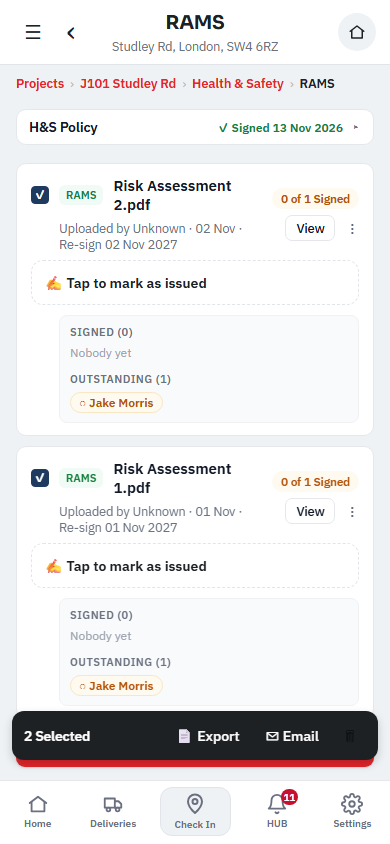
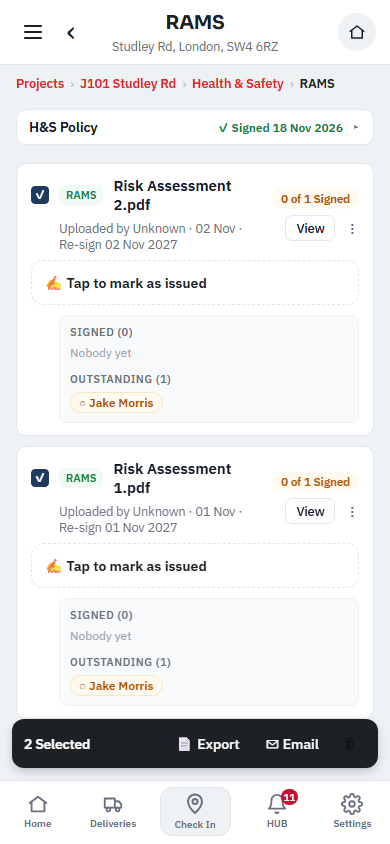
Invites: room above One-Time Invite and Copy Link says Copied ✓; RAMS bar above the phone menu; Back from a project's home goes Home (Andy, 18 Nov)
- Invites: space above One-Time Invite and Pending Invites; Copy Link changes to Copied ✓ (and its box goes green) for a
  moment, then back.
- H&S lists (RAMS etc.): the ticked-documents bar sits just above the phone's bottom menu, the iPhone's home-line space
  included ("the pop up bar sits too low").
- Back on a project's home screen goes to Home, not the Projects list; pages inside the project still step back to it.
- Tests: backhome18 new; hsbar (bar above the menu) and subsignup18 (Copied ✓, spacing) extended.

Claude-Session: https://claude.ai/code/session_012KhfNvBEbifMJmPdX7yZfp

Changed region(s): [[0.0308, 0.8318, 0.9846, 0.9242], [0.0615, 0.0308, 0.0923, 0.0616]]

diff --git a/app-native/src/app/(app)/pm/admin/invites.tsx b/app-native/src/app/(app)/pm/admin/invites.tsx
@@ -22,19 +22,22 @@ export default function Invites() {
   const { data } = useInvites(me?.org_id);
   const [role, setRole] = useState('operative');
   const [newId, setNewId] = useState<string | null>(null);
+  // Which link was just copied: its button says Copied ✓ and its box goes green for a moment (Andy, 18 Nov 2026: "When I
+  // click copy link it doesn't animate that anything has been copied").
+  const [copied, setCopied] = useState<string | null>(null);
   const [email, setEmail] = useState('');
   const [busy, setBusy] = useState<string | null>(null);
   if (!me) return null;
   if (!isManager(me)) return <Muted style={{ padding: space.l }}>Managers only.</Muted>;
   const refresh = () => { void qc.invalidateQueries({ queryKey: ['invites'] }); };
-  const share = async (link: string) => {
+  const share = async (link: string, which: string) => {
     const text = `${org?.name || 'Company'} x OpHUB Invite Link\n${link}`;
     try {
-      if (Platform.OS === 'web' && globalThis.navigator?.clipboard) { await globalThis.navigator.clipboard.writeText(text); toast('Link copied'); }
+      if (Platform.OS === 'web' && globalThis.navigator?.clipboard) { await globalThis.navigator.clipboard.writeText(text); setCopied(which); setTimeout(() => setCopied((c) => (c === which ? null : c)), 1800); }
       else await Share.share({ message: text });
     } catch { toast('Could not copy — select and copy the link manually.'); }
   };
-  const linkBox = (link: string) => <TextInput value={link} editable={false} selectTextOnFocus style={{ borderWidth: 1, borderColor: base.line, borderRadius: radius.input, padding: 8, fontSize: 11.5, color: base.ink, marginBottom: 8 }} />;
+  const linkBox = (link: string, which?: string) => <TextInput value={link} editable={false} selectTextOnFocus style={{ borderWidth: 1, borderColor: copied && copied === which ? base.ok : base.line, backgroundColor: copied && copied === which ? '#F2FBF6' : undefined, borderRadius: radius.input, padding: 8, fontSize: 11.5, color: base.ink, marginBottom: 8 }} />;
   const perm = data?.permanent;
   return (
     <ScrollView contentContainerStyle={page(720)} keyboardShouldPersistTaps="handled">
@@ -43,8 +46,8 @@ export default function Invites() {
         {perm ? (
           <>
             <Muted style={{ marginBottom: 8 }}>Share this one link with as many operatives as you like — it never expires and can be used more than once. Used {perm.use_count || 0} time{perm.use_count === 1 ? '' : 's'} so far.</Muted>
-            {linkBox(joinLink(perm.id))}
-            <Button kind="ghost" title={Platform.OS === 'web' ? 'Copy Link' : 'Share Link'} onPress={() => void share(joinLink(perm.id))} />
+            {linkBox(joinLink(perm.id), 'perm')}
+            <Button kind="ghost" title={Platform.OS === 'web' ? (copied === 'perm' ? 'Copied ✓' : 'Copy Link') : 'Share Link'} onPress={() => void share(joinLink(perm.id), 'perm')} />
             <Button kind="ghost" title="Revoke & Create New Link" onPress={async () => {
               if (!(await confirmAsk("This stops the current link from working — anyone who already joined stays on your team, but the link itself won't sign anyone new up any more. You can create a fresh one straight after. Continue?", 'Revoke'))) return;
               toast((await revokeInvite(perm.id)) ? 'Old link revoked' : 'Could not revoke — try again.'); refresh();
@@ -56,12 +59,12 @@ export default function Invites() {
             <Button busy={busy === 'perm'} title="Create Permanent Invite Link" onPress={async () => { setBusy('perm'); const ok = await createPermanentInvite(me); setBusy(null); toast(ok ? 'Permanent invite link created' : 'Could not create — try again.'); refresh(); }} />
           </>
         )}
-        <SectionTitle>One-time invite</SectionTitle>
+        <View style={{ marginTop: 20 }}><SectionTitle>One-Time Invite</SectionTitle></View>
         {newId ? (
           <>
             <Muted style={{ marginBottom: 8 }}>Share this link — it works once, for the next 14 days:</Muted>
-            {linkBox(joinLink(newId))}
-            <Button kind="ghost" title={Platform.OS === 'web' ? 'Copy Link' : 'Share Link'} onPress={() => void share(joinLink(newId))} />
+            {linkBox(joinLink(newId), 'one')}
+            <Button kind="ghost" title={Platform.OS === 'web' ? (copied === 'one' ? 'Copied ✓' : 'Copy Link') : 'Share Link'} onPress={() => void share(joinLink(newId), 'one')} />
             <Muted style={{ marginTop: 10, marginBottom: 6 }}>Or email it to them — a branded invite email with a button that takes them straight to sign-up.</Muted>
             <TextInput value={email} onChangeText={setEmail} placeholder="operative@example.com" autoCapitalize="none" keyboardType="email-address" style={{ borderWidth: 1, borderColor: base.line, borderRadius: radius.input, padding: 10, color: base.ink, marginBottom: 8 }} />
             <Button busy={busy === 'email'} title="Send Invite Email" onPress={async () => {
@@ -82,7 +85,7 @@ export default function Invites() {
         )}
         {!!data?.pending.length && (
           <>
-            <SectionTitle>Pending invites</SectionTitle>
+            <View style={{ marginTop: 20 }}><SectionTitle>Pending Invites</SectionTitle></View>
             {data.pending.map((i) => (
               <View key={i.id} style={{ flexDirection: 'row', alignItems: 'center', gap: 8, paddingVertical: 8, borderTopWidth: 1, borderTopColor: base.line }}>
                 <View style={{ flex: 1 }}>

diff --git a/app-native/src/components/HsDocList.tsx b/app-native/src/components/HsDocList.tsx
@@ -12,6 +12,7 @@ import { testFill } from '@/data/signTemplates';
 import { supabase } from '@/lib/supabase';
 import { useCallback, useState, type ReactNode } from 'react';
 import { Platform, Pressable, Text, useWindowDimensions, View } from 'react-native';
+import { useSafeAreaInsets } from 'react-native-safe-area-context';
 
 import { ClientSignLines } from '@/components/ClientSignLines';
 import { Portal } from '@/components/Portal';
@@ -124,6 +125,7 @@ export function HsDocList({ kind, site, companyId = null, canManage }: { kind: D
   useFocusEffect(useCallback(() => { setFocused(true); return () => setFocused(false); }, []));
   const narrow = useWindowDimensions().width < 700;
   const desk = useDesk();
+  const insets = useSafeAreaInsets();
   if (!me) return null;
   const manager = canManage ?? isManager(me);
   // Sign Off H&S (Admin › Roles): without it a manager sees RAMS / COSHH read-only. Site layouts and a subcontractor's own admin are unchanged.
@@ -213,9 +215,10 @@ export function HsDocList({ kind, site, companyId = null, canManage }: { kind: D
     toast(n === ids.length ? `${n} deleted` : `Only ${n} of ${ids.length} could be deleted — try again.`, { confirm: true });
   };
   // Drawn on top of the page (Portal), not inside the scrolling list: inside it, the bar scrolled up with the page and
-  // sat in the middle of the screen once there were a few RAMS (Andy, 14 Nov 2026).
+  // sat in the middle of the screen once there were a few RAMS (Andy, 14 Nov 2026). On a phone it sits just above the
+  // bottom menu, the iPhone's home-line space included (Andy, 18 Nov 2026: "the pop up bar sits too low").
   const bar = manager && kind !== 'layout' && sel.size > 0 && focused ? (<Portal>
-    <View style={{ position: (Platform.OS === 'web' ? 'fixed' : 'absolute') as 'absolute', left: desk ? 264 : 12, right: desk ? 24 : 12, bottom: desk ? 16 : 84, zIndex: 50, flexDirection: 'row', alignItems: 'center', gap: 6, paddingHorizontal: 12, paddingVertical: 8, borderRadius: 12, backgroundColor: base.ink, shadowColor: '#000', shadowOpacity: 0.18, shadowRadius: 10, shadowOffset: { width: 0, height: 4 }, elevation: 6 }}>
+    <View style={{ position: (Platform.OS === 'web' ? 'fixed' : 'absolute') as 'absolute', left: desk ? 264 : 12, right: desk ? 24 : 12, bottom: desk ? 16 : 76 + insets.bottom, zIndex: 50, flexDirection: 'row', alignItems: 'center', gap: 6, paddingHorizontal: 12, paddingVertical: 8, borderRadius: 12, backgroundColor: base.ink, shadowColor: '#000', shadowOpacity: 0.18, shadowRadius: 10, shadowOffset: { width: 0, height: 4 }, elevation: 6 }}>
       <Text style={{ flex: 1, color: '#fff', fontWeight: '600', fontSize: 13.5 }}>{sel.size} Selected</Text>
       <Pressable accessibilityRole="button" disabled={busy} onPress={async () => { setBusy(true); toast('Building signed PDF…'); try { const b = await pack(ordered(sel)); if (b && !(await deliverPdf(b.bytes, b.filename))) toast('Could not save the PDF.'); } finally { setBusy(false); } }} style={{ paddingHorizontal: 10, paddingVertical: 6 }}><Text style={{ color: '#fff', fontWeight: '500' }}>📄 Export</Text></Pressable>
       <Pressable accessibilityRole="button" disabled={busy} onPress={() => void emailIds(ordered(sel))} style={{ paddingHorizontal: 10, paddingVertical: 6 }}><Text style={{ color: '#fff', fontWeight: '500' }}>✉ Email</Text></Pressable>

diff --git a/tools/test-harness/backhome18-check.js b/tools/test-harness/backhome18-check.js
@@ -1,0 +1,30 @@
+// Back on a project's home screen goes to Home (Andy, 18 Nov 2026: "When I'm in the Home Screen of projects and I click
+// back it needs to take me to the Home Screen"), coming from the Projects list too; a page inside the project still steps
+// back to the project's home. A manager on a phone and on a laptop. Fake database. node backhome18-check.js
+const {chromium, makeContext, S1} = require('./harness');
+const B = 'http://localhost:8081';
+const check = (ok, what) => { console.log((ok ? 'PASS ' : 'FAIL ') + what); if (!ok) process.exitCode = 1; };
+
+(async () => {
+  const browser = await chromium.launch(); const errs = [];
+  for (const [w, h, dev] of [[390, 844, 'phone'], [1300, 900, 'laptop']]) {
+    const {ctx, db} = await makeContext(browser, 'admin', [], {viewport: {width: w, height: h}});
+    require('./seeds/world')(db);
+    Object.assign(db.profiles.find((p) => p.id === 'me'), {role: 'admin', howto_dismissed: ['*']});
+    const page = await ctx.newPage(); page.on('pageerror', (e) => errs.push(e.message));
+    await page.goto(B + '/login'); await page.waitForTimeout(5000);
+    await page.fill('input[placeholder="you@yourcompany.co.uk"]', 'a@x.co'); await page.fill('input[type="password"]', 'pw123456');
+    await page.getByText('Sign In', {exact: true}).click(); await page.waitForTimeout(6000);
+    const back = async () => { await page.getByLabel('Back', {exact: true}).filter({visible: true}).first().click(); await page.waitForTimeout(3000); return new URL(page.url()).pathname; };
+    // In a project, a page inside it steps back to the project's home.
+    await page.goto(`${B}/sites`); await page.waitForTimeout(4000);
+    await page.goto(`${B}/sites/${S1}/hs`); await page.waitForTimeout(4000);
+    let at = await back();
+    check(at === `/sites/${S1}`, `${dev}: Back from Health & Safety goes to the project's home (${at})`);
+    at = await back();
+    check(at === '/home', `${dev}: Back from the project's home goes to Home (${at})`);
+    await ctx.close();
+  }
+  check(!errs.length, `no page errors ${errs.slice(0, 2).join(' | ')}`);
+  await browser.close();
+})();

diff --git a/tools/test-harness/subsignup18-check.js b/tools/test-harness/subsignup18-check.js
@@ -30,6 +30,19 @@ const check = (ok, what) => { console.log((ok ? 'PASS ' : 'FAIL ') + what); if (
   await page.goto(B + '/pm/admin/invites'); await page.waitForTimeout(4000);
   t = await page.evaluate(() => [...document.querySelectorAll('input, textarea')].map((i) => i.value).join(' ')); // the link sits in a box
   check(t.includes(`${B}/join/`) && !t.includes('app.html#'), `invite links open the new app's join page (${(t.match(/\S*\/join\/\S*/) || [''])[0]})`);
+  // Room above One-Time Invite, and Copy Link says it's copied ("it doesn't animate that anything has been copied").
+  const gap = await page.evaluate(() => {
+    const h = [...document.querySelectorAll('div[dir="auto"]')].find((e) => /^One-Time Invite$/i.test(e.textContent.trim()));
+    const btns = [...document.querySelectorAll('[role="button"]')].filter((b) => b.getBoundingClientRect().bottom <= (h?.getBoundingClientRect().top ?? 0));
+    return h && btns.length ? Math.round(h.getBoundingClientRect().top - Math.max(...btns.map((b) => b.getBoundingClientRect().bottom))) : null;
+  });
+  check(gap !== null && gap >= 18, `room above One-Time Invite (${gap}px)`);
+  await ctx.grantPermissions(['clipboard-read', 'clipboard-write'], {origin: B});
+  await page.getByText('Copy Link', {exact: true}).first().click(); await page.waitForTimeout(400);
+  check(await page.getByText('Copied ✓', {exact: true}).count() === 1, 'Copy Link changes to Copied ✓');
+  await page.screenshot({path: path.join(SHOTS, 'invites-copied-laptop.png')});
+  await page.waitForTimeout(2200);
+  check(await page.getByText('Copied ✓', {exact: true}).count() === 0, 'and back to Copy Link after a moment');
   await ctx.close();
 
   // ---- The form, signed out, on a phone ----

diff --git a/tools/test-harness/hsbar-check.js b/tools/test-harness/hsbar-check.js
@@ -22,6 +22,12 @@ const check = (ok, what) => { console.log((ok ? 'PASS ' : 'FAIL ') + what); if (
   const t = await page.evaluate(() => document.body.innerText);
   check(/\d+ Selected/.test(t) && /📄 Export/.test(t) && /✉ Email/.test(t) && !/\bClear\b/.test(t), 'bar shows count, Export, Email, no Clear');
   check(await page.getByLabel('Delete selected').count() > 0, 'bar has the bin');
+  // Above the bottom menu, not over it (Andy, 18 Nov 2026: "the pop up bar sits too low").
+  // The bar's words end 12px above its own bottom edge; the menu's icons sit 24px above their words.
+  const barText = await page.getByText(/^[0-9]+ Selected$/).first().boundingBox();
+  const homeText = await page.getByText('Home', {exact: true}).last().boundingBox();
+  const fit = barText && homeText ? {barBottom: Math.round(barText.y + barText.height + 12), menuTop: Math.round(homeText.y - 24)} : null;
+  check(!!fit && fit.barBottom <= fit.menuTop, `the bar sits above the bottom menu (${JSON.stringify(fit)})`);
   await page.screenshot({path: path.join(__dirname, 'shots', 'job', 'hsbar-phone.png')});
   await page.getByLabel('Delete selected').click(); await page.waitForTimeout(600);
   check(await page.getByText(/and all (its|their) signatures\? This cannot be undone/).count() > 0, 'the bin asks first');

diff --git a/app-native/src/components/AppBar.tsx b/app-native/src/components/AppBar.tsx
@@ -138,6 +138,9 @@ export function AppBar({ title, onBack, home, right, noHistory, routeName }: { t
     if (path.startsWith('/fin')) { const prev = takeFinBack(); if (prev) { router.navigate(prev as never); return; } }
     const from = takeJump(path.replace(/\/$/, '') || path);
     if (from) { router.navigate(from as never); return; }
+    // A project's home screen goes back to Home, not the list of projects (Andy, 18 Nov 2026: "When I'm in the Home Screen of
+    // projects and I click back it needs to take me to the Home Screen").
+    if (jobHome && !fin) { router.navigate('/home' as never); return; }
     // A manager on a job goes up one level; a page further in than the trail shows, and everyone else, keeps its own back.
     const up = site && isManager(me) && (pageTrail || path.split('/').filter(Boolean).length <= 4) ? [...crumbs].reverse().find((c) => c[1])?.[1] : null;
     if (up) { router.navigate(up as never); return; }
